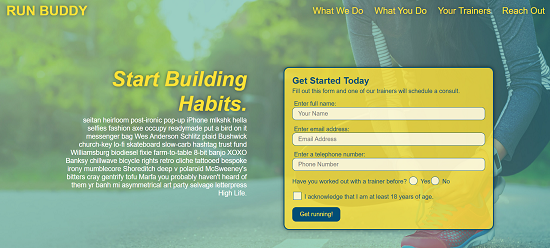
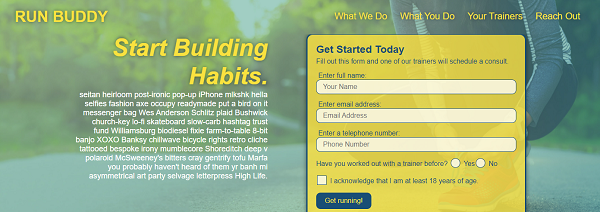
landing page done with basic styling complete

diff --git a/index.html b/index.html
@@ -8,7 +8,7 @@
 </head>
 <body>
     <!--Header and Navigation-->
-    <header>
+    <header class="border-bottom">
         <a href="index.html"> <img src="assets/images/logo-transparent.png"></a>
         
         <!--Navigation to Page Sections-->
@@ -23,12 +23,12 @@
     </header>
 
     <!--Hero/Jumbotron-->
-    <section class="hero">
+    <section class="hero border-bottom">
      
     </section>
 
     <!--About Me-->
-    <section id="about-me">
+    <section id="about-me" class="border-bottom">
         <!--Start Section Title Container Box-->
         <div class="section-title-container"> 
             <h2 class="section-title"> About Me</h2>
@@ -36,25 +36,37 @@
         <!--End Section Title Container Box-->
 
         <!--Start Content Container Box-->
-        <div class="content-container">
+        <div class="content-container about-me-container">
 
-            <!--About Me Content Container Start-->
-            <div class="about-me-container">
+            
 
                 <div class="my-image">
                     <img src="assets/images/profile-pic.png" alt="photo of Sheri Warren" />
                 </div>
                 
                 <div class="my-info">
-                    <p> 
-                        orem ipsum dolor sit amet, consectetur adipiscing elit. Proin sagittis turpis vitae mi ornare, ut tincidunt nisl condimentum. Sed a vehicula lectus. Vestibulum egestas justo id neque viverra dignissim. Aliquam erat volutpat. Mauris at fringilla leo. Cras ac neque velit. Morbi semper nisl ac ipsum pulvinar fringilla.
-
-                    
+                    <p>
+                        Sheri Warren's Journey: I am a former high school math teacher.  Upon graduation from college, I entered the teaching profession. 
+                        I taught for three years and then stayed at home to raise our children.  As my children got older 
+                        I worked part-time as an Office Manager for a local dance studio and volunteered my time on our local
+                        Amelia Day Committee.<br/>
+                        <br/>
+                        It was during my time as an Office Manager at the local studio that I was introduced to maintaining webpages.  I had 
+                        to teach myself some basic HTML to update our studio webpage.  Then, as that page became obsolete I used
+                        a graphic interface to completely design a brand new webpage.  I was intrigued then and wanted to learn how to
+                        code it from scratch.<br/>
+                        <br/>
+                        I returned to teaching as my kids got older and the first year back I was tasked with teaching
+                        our Computer Math class. I had the opportunity to teach students basic HTML, CSS and JavaScript.  I had to teach myself
+                        the basics before teaching my students.  This experiece reignited my desire to become a web devloper.<br/>
+                        <br/>
+                        In 2021, I entered the University of Richmond Web Development Boot Camp to help me reach my goal of becoming a web
+                        developer. I am so excited to begin my new career. 
+   
                     </p>
                 </div>
 
-            </div>
-            <!--About Me Content Container End-->
+            
 
         </div>
         <!--End Content Container Box-->   
@@ -63,18 +75,18 @@
     </section>
 
     <!--My Work-->
-    <section id="my-work">
+    <section id="my-work" class="border-bottom">
         <!--Start Section Title Container Box-->
         <div class="section-title-container">
-            
+                
                 <h2 class="section-title"> My Work</h2>
-         
+           
         </div>
         <!--End Section Title Container Box-->
 
         <!--Start Content Container Box-->
-        <div class="content-container">
-            <div class="large-image-box-container">
+        <div class="content-container my-work-container">
+            <div class="image-box-container">
                     <h3 class> Run Buddy</h3>
                     <p> Helped develop Run-Buddy Application</p>
                 
@@ -99,29 +111,15 @@
                  </div>
             </div>
 
-             <div class="image-box-container">
-                 <h3 class="product-title"> Coming Soon</h3>
-                 <p> New application coming soon </p>
-                <div class-image-box>
-                    <img src="assets/images/placeholder.jpg" class="work-image">
-                 </div>
-             </div>
-
-             <div class="image-box-container">
-                <h3 class="product-title"> Coming Soon</h3>
-                <p> New application coming soon </p>
-                 <div class-image-box>
-                    <img src="assets/images/placeholder.jpg" class="work-image">
-                 </div>
-            </div>
-          
-        </div>
+             
+        </div>  
+        
         <!--End Content Container Box-->
      
     </section>
 
     <!--Contact Me-->
-    <section id="contact-me">
+    <section id="contact-me" class="border-bottom">
 
         <!--Section Title Container Box-->
         <div class="section-title-container">  
@@ -131,42 +129,40 @@
         <!--End Section Title Container Box-->
             
         <!--Start Container Content Box-->   
-        <div class="content-container">
-
-            <!--Contact Me Container Start-->
-            <div class="container-contact">
+        <div class="content-container contact-info-container">
 
                 <!--By Address Container-->                
-                <div class="by-mail">
+                <div class="contact-info">
                     <address>
-                        <h4> By Mail:</h4>
+                        <h4> Mail:</h4>
                         <p>
                             9021 SOUTH GENITO RD <br/>
-                            JETERSVILLE, VIRGINIA <br/>
-                            23083 <br/>
+                            JETERSVILLE, VIRGINIA 23083<br/>
                         </p>
                     </address>
                 </div>
 
                 <!--By Phone Container-->
-                <div class="by-phone">
+                <div class="contact-info">
                     <address>
-                        <h4> By Phone:</h4>
+                        <h4> Phone:</h4>
                         <p>
                             Cell: 804.305.2042 <br/>
                              Home: 804.561.3522 <br/>
                          </p>
                     </address>
                 </div>
-
-                <div class="by-email">
+                
+                <!--Email Container-->
+                <div class="contact-info">
                     <address>
-                        <h4> By Email: </h4>
-                        <a href="mailto:sheri.warren35@gmail.com">sheri.warren35@gmail.com</a>
+                        <h4> Email: </h4>
+                        <a href="mailto:sheri.warren35@gmail.com">sheri.warren35@gmail.com</a><br/>
+                        <br/>
                     </address>
                 </div>   
             </div>
-            <!--Contact Me Container Start-->     
+            <!--Contact Me Container End-->     
           
         </div>
         <!--End Content Container Box-->

diff --git a/assets/css/style.css b/assets/css/style.css
@@ -8,20 +8,13 @@
 
 body {
     font-family:Verdana, Geneva, Tahoma, sans-serif;
+    color: #fff;
+    
     
 }
 
-.section-title-container {
-    flex: 1 10%;
-    border: 5px purple solid;
-    
-
-}
-
-.content-container {
-    flex: 4 80%;
-    border: 5px red solid;
-
+.border-bottom {
+    border-bottom: 5px #fff solid;
 }
 
 /*Heading & Navigation Styles*/
@@ -37,7 +30,7 @@ header {
     top: 0px;
     margin: 0 auto;
     padding: 10px 20px;
-    border-bottom: 5px solid #fff;
+    
 }
 
 header nav ul {
@@ -65,53 +58,64 @@ header ul li a {
 .hero {
     height: 600px;
     background-image: url(../images/hero.png);
-    background-size:cover;
-    border-bottom: 5px solid #fff;
+    background-size:cover;  
     
 
 }
 
-
-/* Section Titles */
+/* Section Styling */
 section {
     width: 100%;   
     background-color: #03989e;
     padding:20px;
-       
+    
+    
 }
 
+.section-title-container {
+    flex: 1 8%;
+    justify-content: center;
+    align-items: center;
+}
 
-
-
-/*About Me Section */
-#about-me {
+.content-container {
+    flex: 4 80%;
     display: flex;
-    border: 5px #000 solid;
-    justify-content: space-between;
-}
-
-.about-me-container {
-    background-color: #03989e;
-    display: flex; 
+    flex-wrap: wrap;
     justify-content: space-around;
+    align-items: center;
     
     
 }
-
-
 
 .section-title {
     color:#fff;
     writing-mode: vertical-lr;
     text-orientation: upright;
     font-size: 28px;
-    border: 5px #fff solid;
-    display: flex;
-    justify-content: center;
-    align-items: center;
-   
+    
       
 }
+
+
+
+/*About Me Section */
+#about-me {
+    display: flex;
+    justify-content: space-between;
+    
+}
+
+.about-me-container {
+    background-color: #03989e;
+    display: flex; 
+    justify-content: space-between;
+    
+    
+}
+
+
+
 
 .my-image {
     flex-shrink: 0;
@@ -121,9 +125,9 @@ section {
 }
 
 .my-image img {
-    border: orange 5px solid;
+    border: #fff 5px solid;
     border-radius: 25%;
-    width: 100%;
+    width: 90%;
     
     
 }
@@ -141,48 +145,33 @@ section {
 #my-work {
     background-color: #ff914d;
     display: flex;
-    border: 5px #000 solid;
-    
-}
-
-.my-work-container {
-    display: flex;
-    flex-wrap: wrap;
     justify-content: space-around;
     
-
 }
 
-.product-title {
-    color:#fff;
-}
-
-.large-image-box-container {
-    display: flex;
-    flex-direction: column;
-}
 
 
 /* Contact Me Section */
 #contact-me {
     background-color: #03989e;
     display: flex;
-    border: 5px #000 solid;
-    
-}
-.container-contact {
-    display: flex;
-    justify-content: space-around;
-    align-items: center;
-    flex-wrap: wrap;
-   
+        
 }
 
-.container-contact h2 {
-    writing-mode: vertical-lr;
-    text-orientation: upright;
-    color:#fff;
+.contact-info-container h4 {
+    text-decoration: underline;
+    font-size: 18px;
+    
 }
+
+.contact-info-container a {
+    color:#fff;
+    text-decoration: none;
+    }
+
+
+
+
 
 
 
@@ -198,6 +187,7 @@ footer {
     margin: 0 auto;
     padding: 5px 40px;
     width: 100%;
+    
     
 }
 
